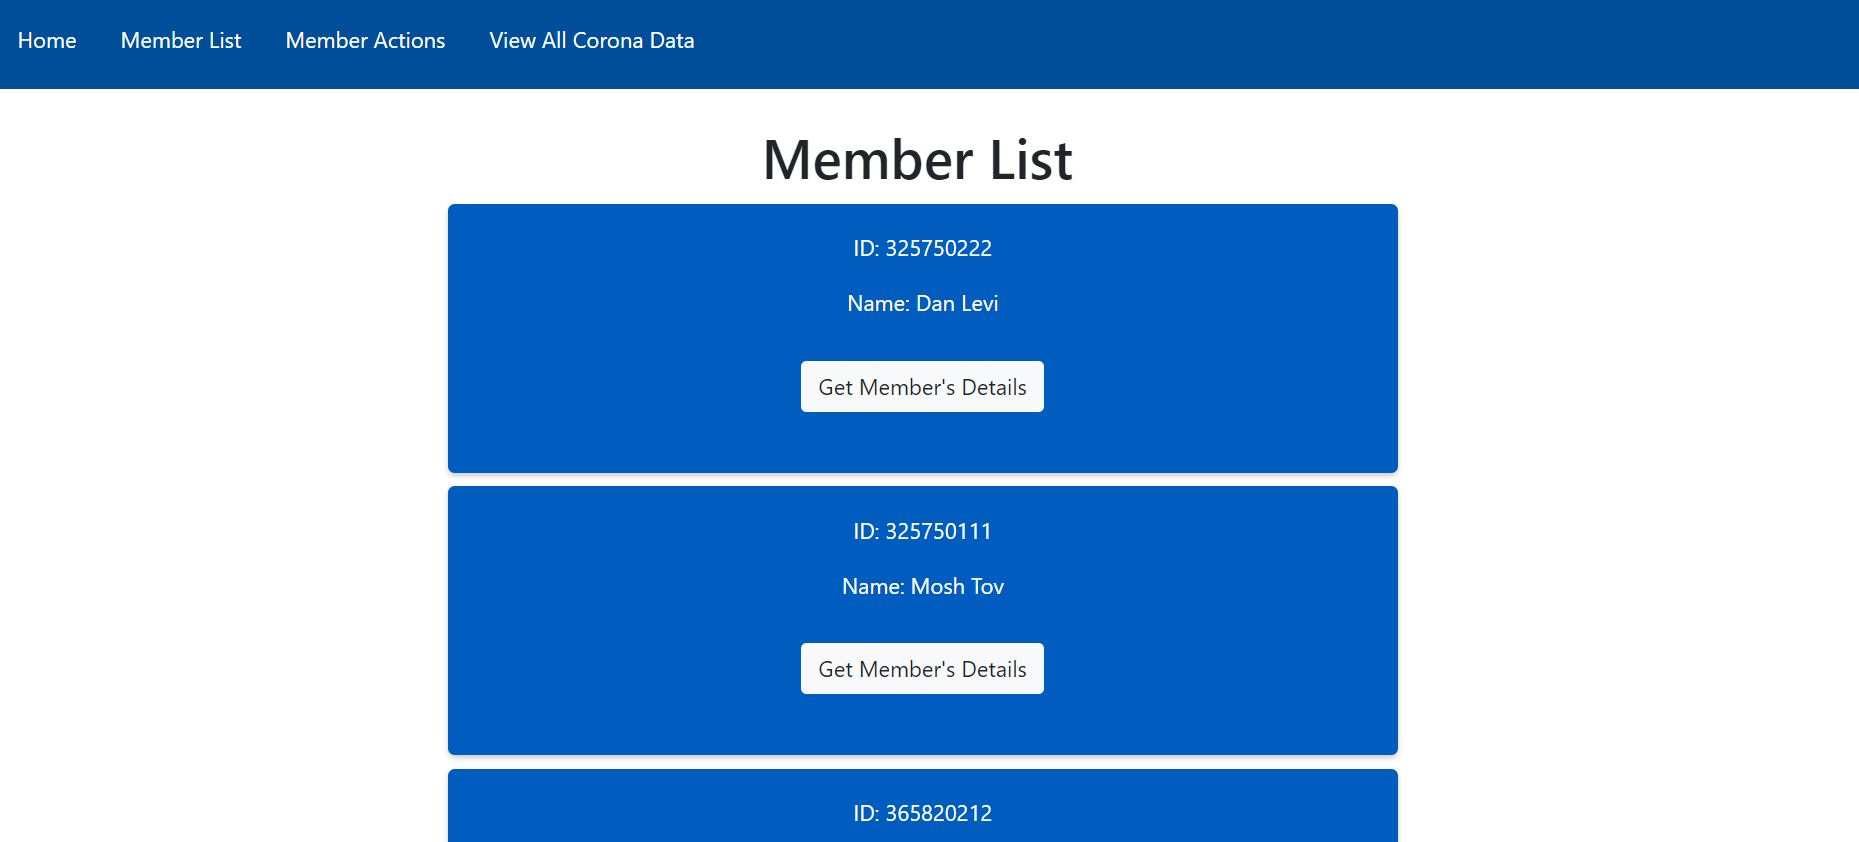
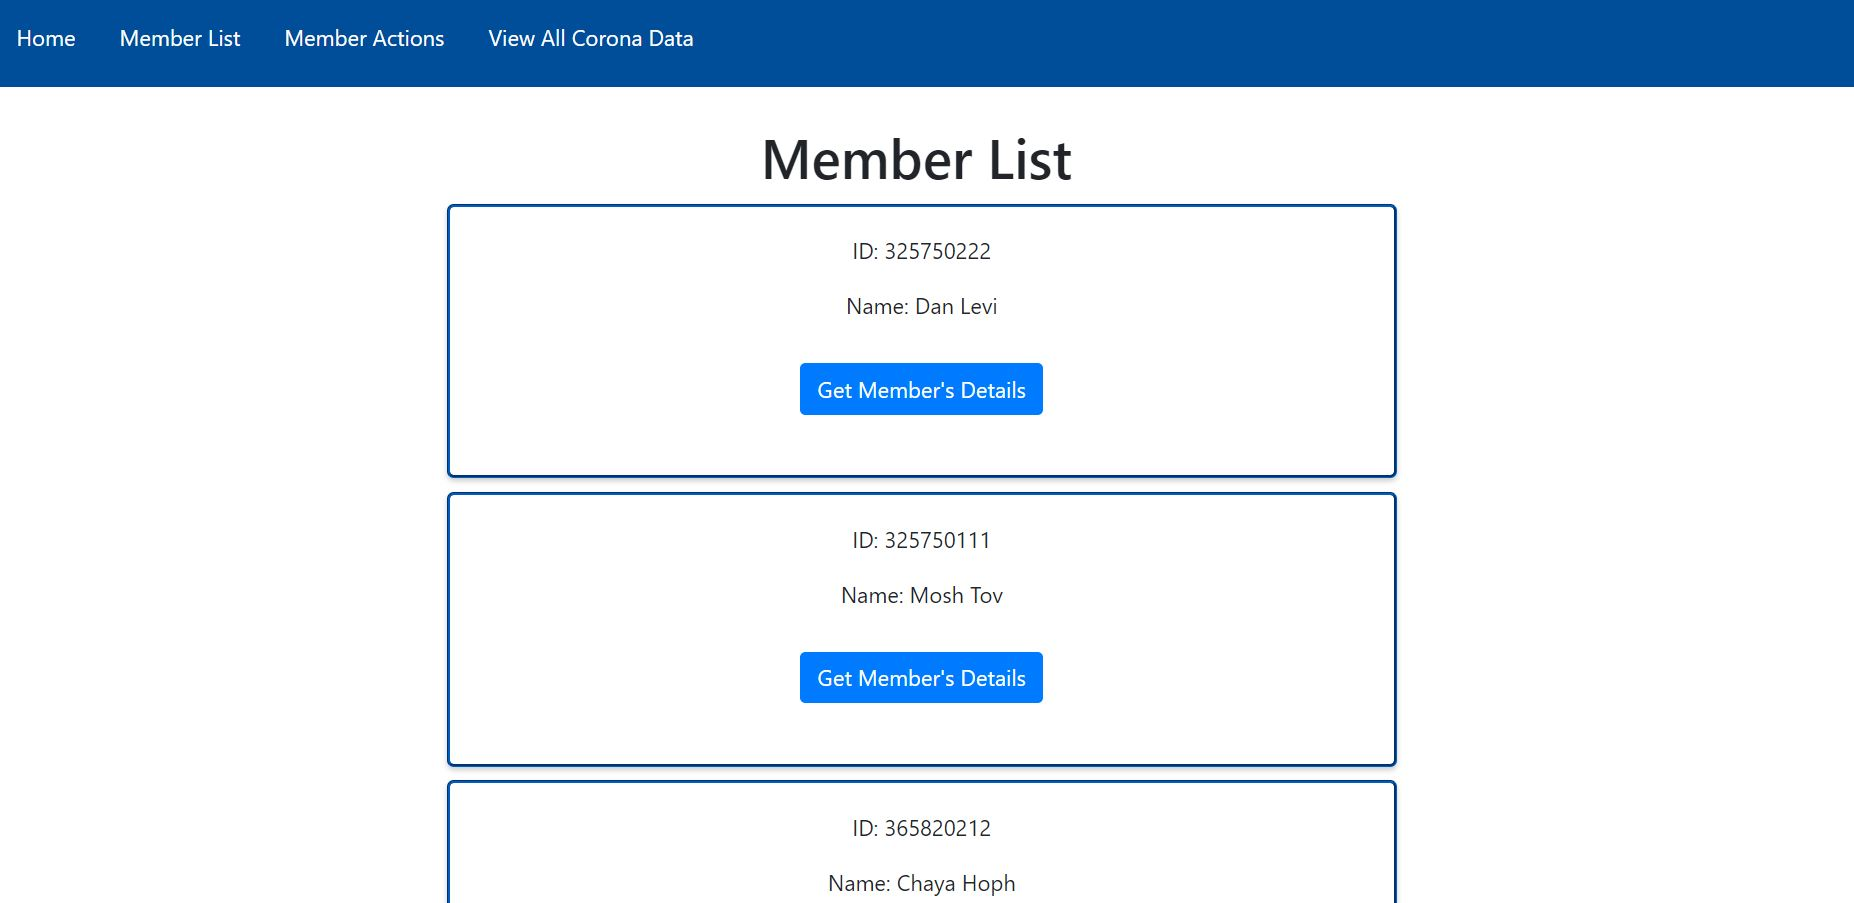
Member list style

diff --git a/client/src/components/list/list.js b/client/src/components/list/list.js
@@ -9,7 +9,7 @@ const List = ({ member }) => {
             <p>ID: {member.id}</p>
             <p>Name: {member.firstName} {member.lastName}</p>
             <div style={{ margin: "10px 0" }}>
-                <Link to={`/membership-card/${member.id}`}><GenericButton variant={"light"} label={"Get Member's Details"}/></Link>
+                <Link to={`/membership-card/${member.id}`}><GenericButton variant={"primary"} label={"Get Member's Details"}/></Link>
             </div>
         </div>
     );

diff --git a/client/src/components/list/list.css b/client/src/components/list/list.css
@@ -1,9 +1,10 @@
 .generic-list {
-    background-color: #005cbf;
-    color: white;
+    background-color: #ffffff;
     padding: 20px;
     margin: 10px 25vw;
     border-radius: 5px;
+    border-color: #005cbf;
+    border-style: groove;
     box-shadow: 0 2px 4px rgba(0,0,0,0.2);
     transition: 0.3s;
     width:50%;
